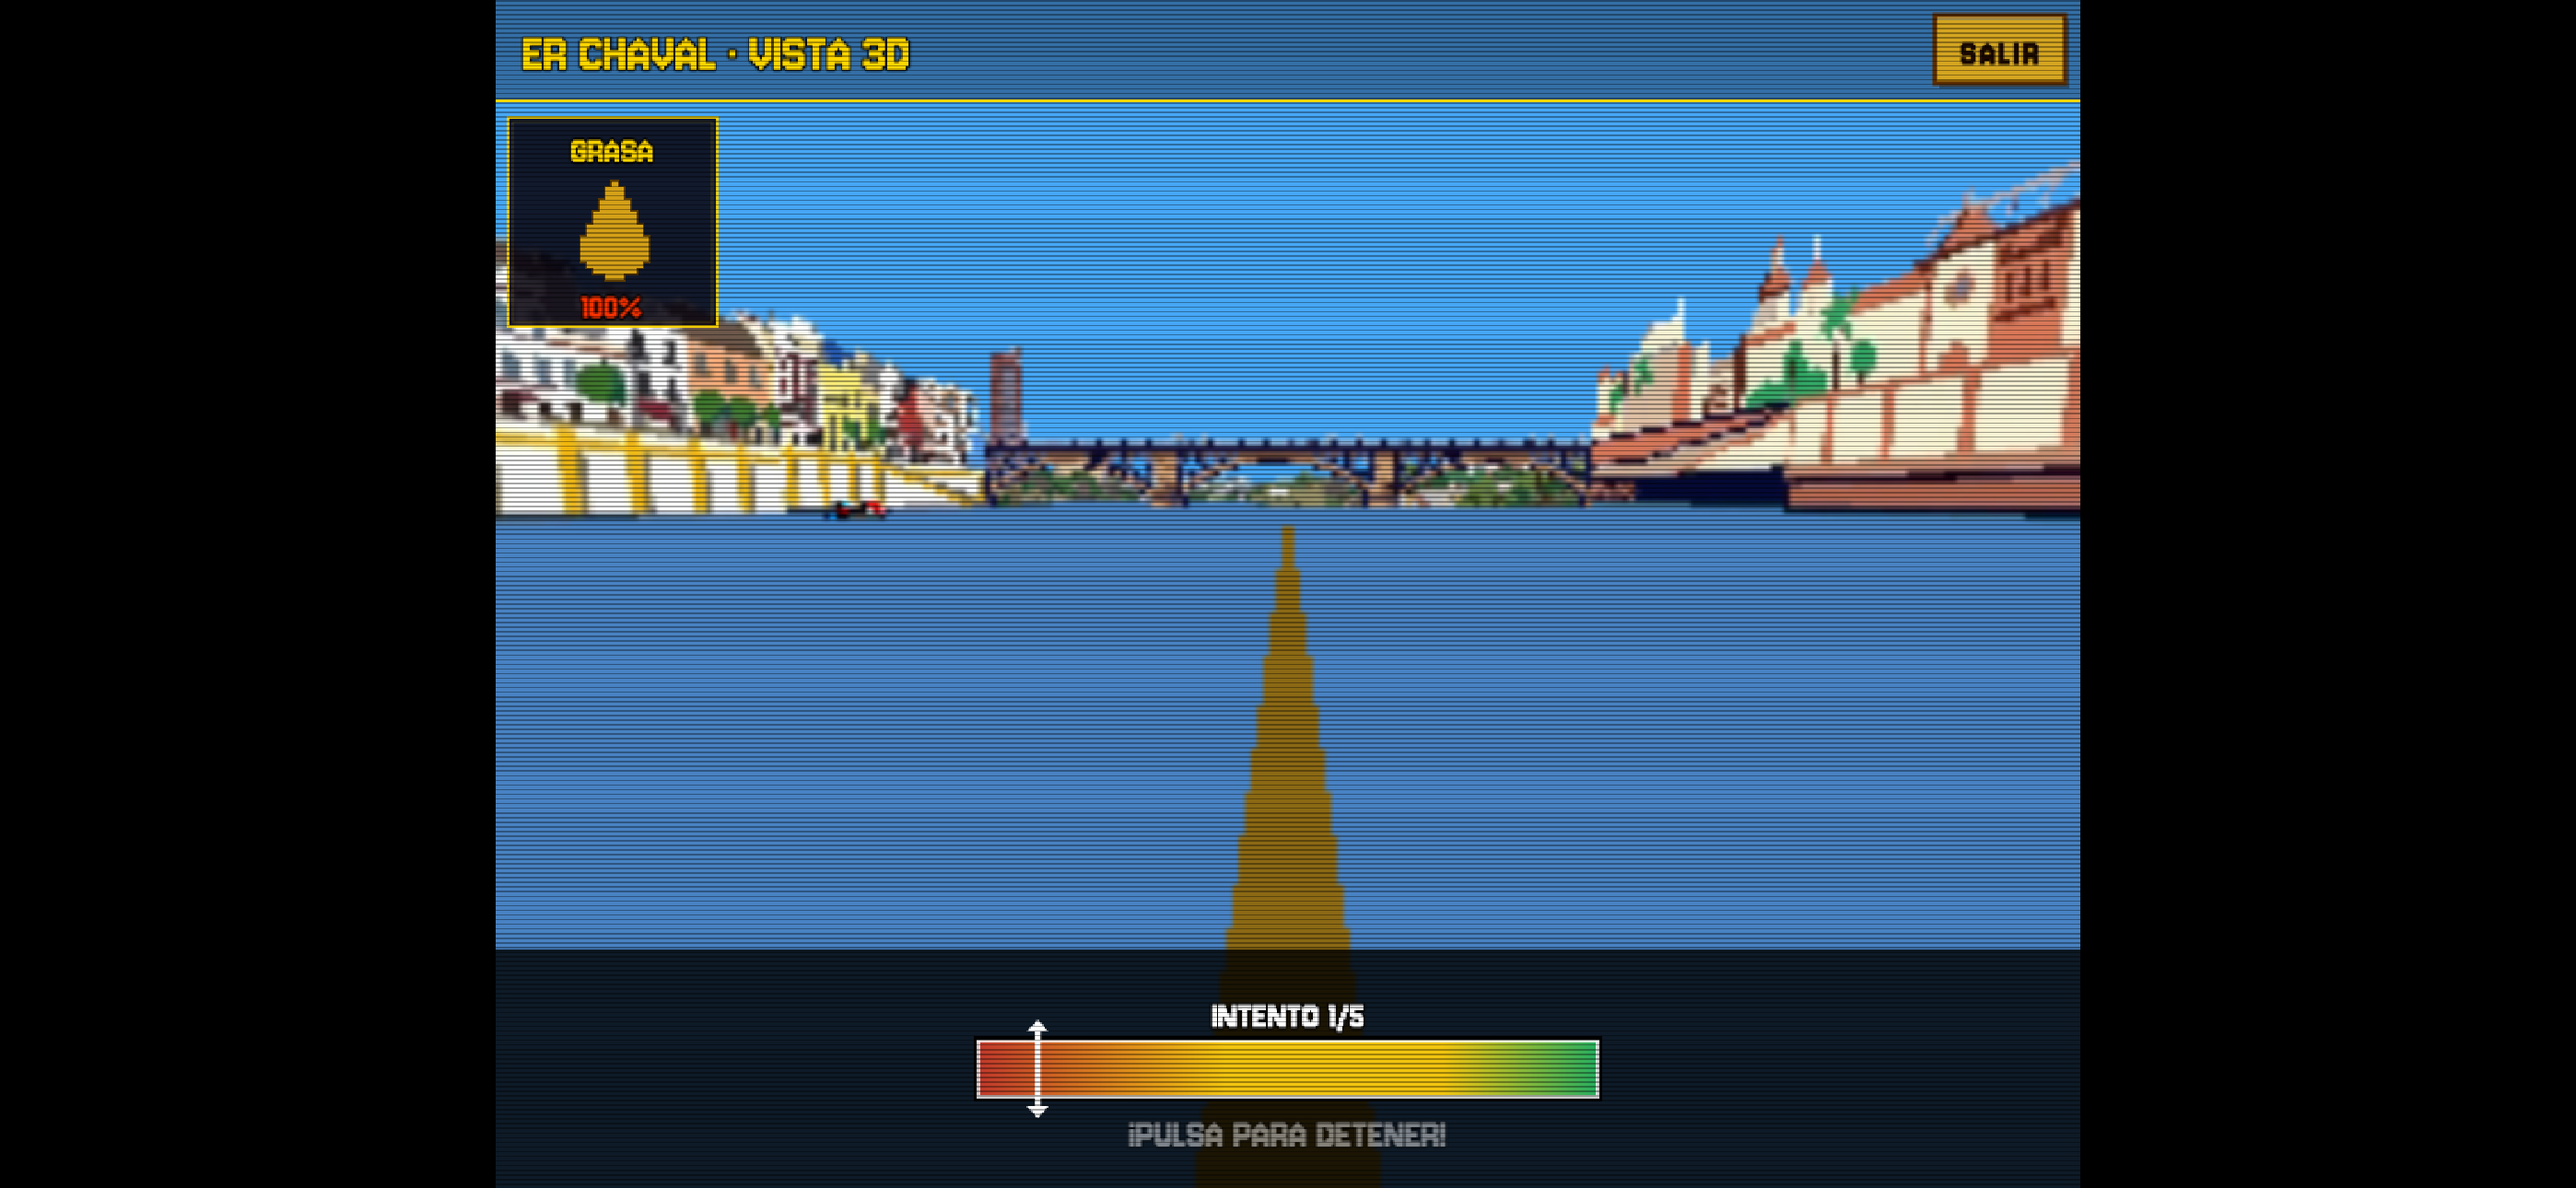
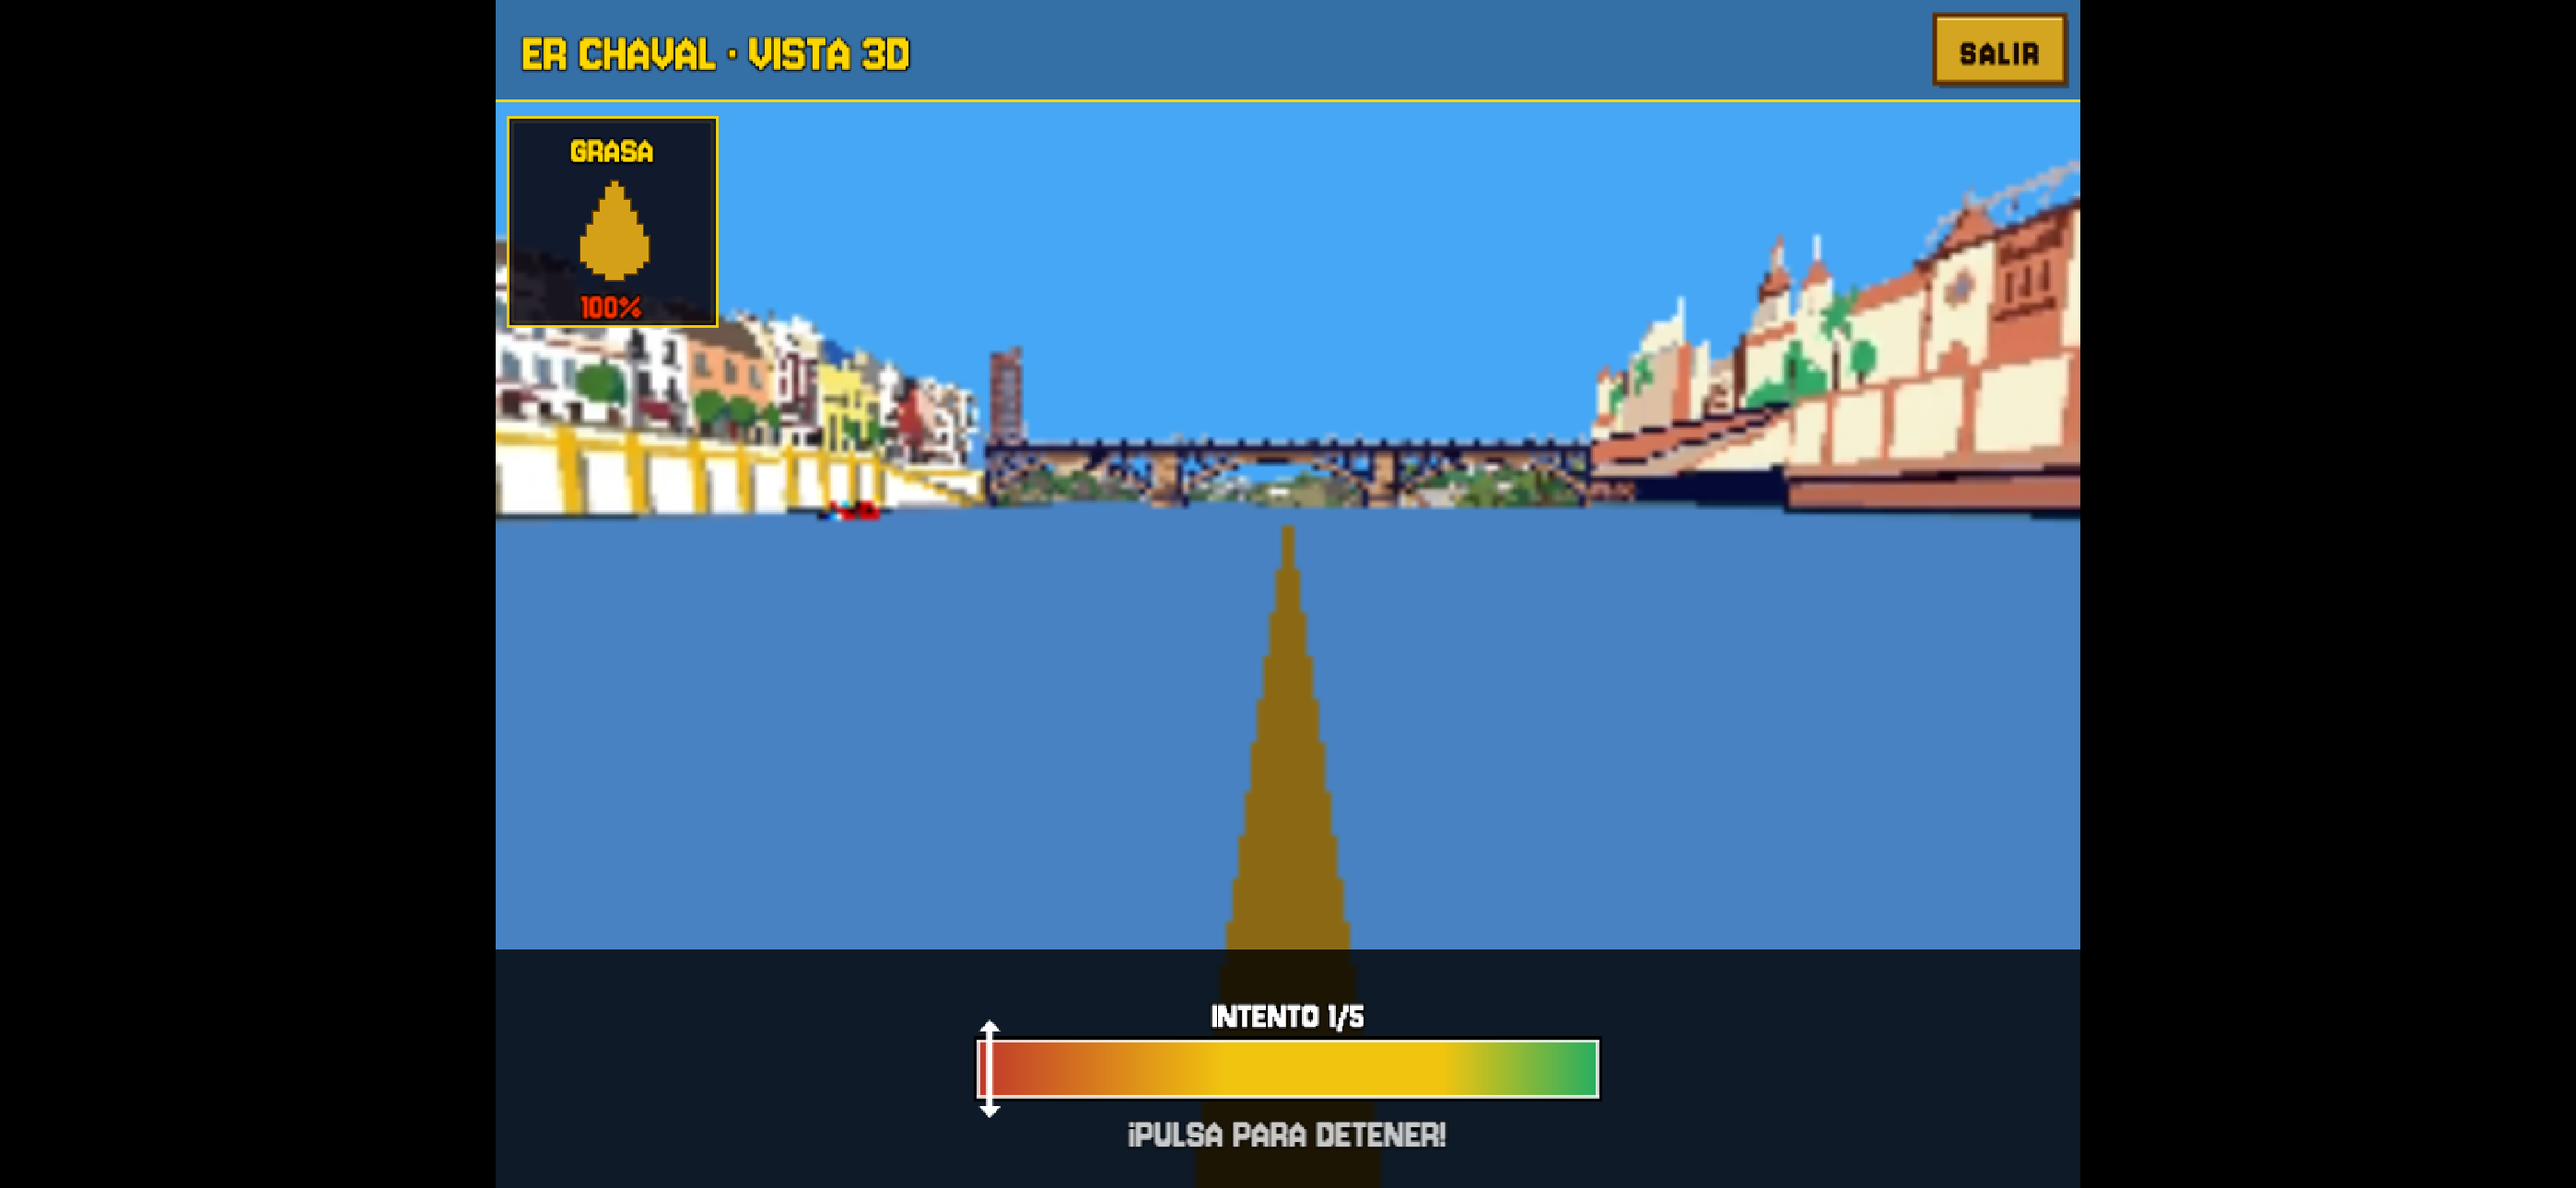
fix(assets): regenerate tutorial + store screenshots without CRT overlay
The 1.5.2 asset drop was captured with CRTScene active, which
draws 1px black scanlines every 3px at alpha 0.35 across the
whole canvas. That worked fine as an in-game effect but read
as ugly noise on the tutorial webp and, more visibly, on the
2x-scaled 2796x1290 store screenshots when Apple/Google
present them at full width.

New pipeline stops CRTScene programmatically right before the
canvas.toDataURL() call, so every image is captured on the
naked game canvas without the scanline layer. Everything else
is preserved: same scenes, same storyboard, same directional
arrows on the tutorial (02-impulso → INTENTO cursor, 03-
equilibrio → red/blue buttons, 04-grasa → grease indicator),
same output dimensions (tutorial 642x487 / 522x397 WebP;
store iPhone 6.7"/6.9" 2796x1290, iPad 13" 2752x2064, Play/
PWA 1920x1080).

CACHE_NAME bumped to cucana-v1.5.3 so returning web clients
pull the fresh bundle instead of the 1.5.2 cache.

Changed region(s): [[0.1867, 0.0, 0.809, 0.8062], [0.3734, 0.8372, 0.6223, 0.9922]]

diff --git a/public/sw.js b/public/sw.js
@@ -1,4 +1,4 @@
-const CACHE_NAME = 'cucana-v1.5.2'
+const CACHE_NAME = 'cucana-v1.5.3'
 
 const PRECACHE_URLS = [
   '/',

diff --git a/CHANGELOG.md b/CHANGELOG.md
@@ -7,6 +7,12 @@ y el proyecto se adhiere a [Versionado Semántico](https://semver.org/lang/es/).
 
 ## [Unreleased]
 
+## [1.5.3] — 2026-07-09
+
+### Fixed
+
+- **Assets del tutorial y de la tienda regenerados SIN el overlay de scanlines CRT** (`public/assets/tutorial/`, `public/assets/store/screenshots/`). En la 1.5.2 las capturas se hicieron con `CRTScene` activa, que dibuja líneas negras cada 3 px con alpha 0.35 sobre todo el canvas — muy visible al escalar a 2×, sobre todo en la ficha de tienda. El nuevo pipeline las regenera parando `CRTScene` justo antes del `canvas.toDataURL()`, lo que da una imagen limpia sin scanlines. Todo el resto se conserva: mismas escenas, mismo storyboard, mismas flechas del tutorial (02-impulso → cursor de la barra INTENTO, 03-equilibrio → botones rojo/azul, 04-grasa → indicador de grasa), mismas dimensiones (tutorial 642×487 / 522×397 WebP; store iPhone 6.7"/6.9" 2796×1290, iPad 13" 2752×2064, Play/PWA 1920×1080).
+
 ## [1.5.2] — 2026-07-09
 
 ### Added
